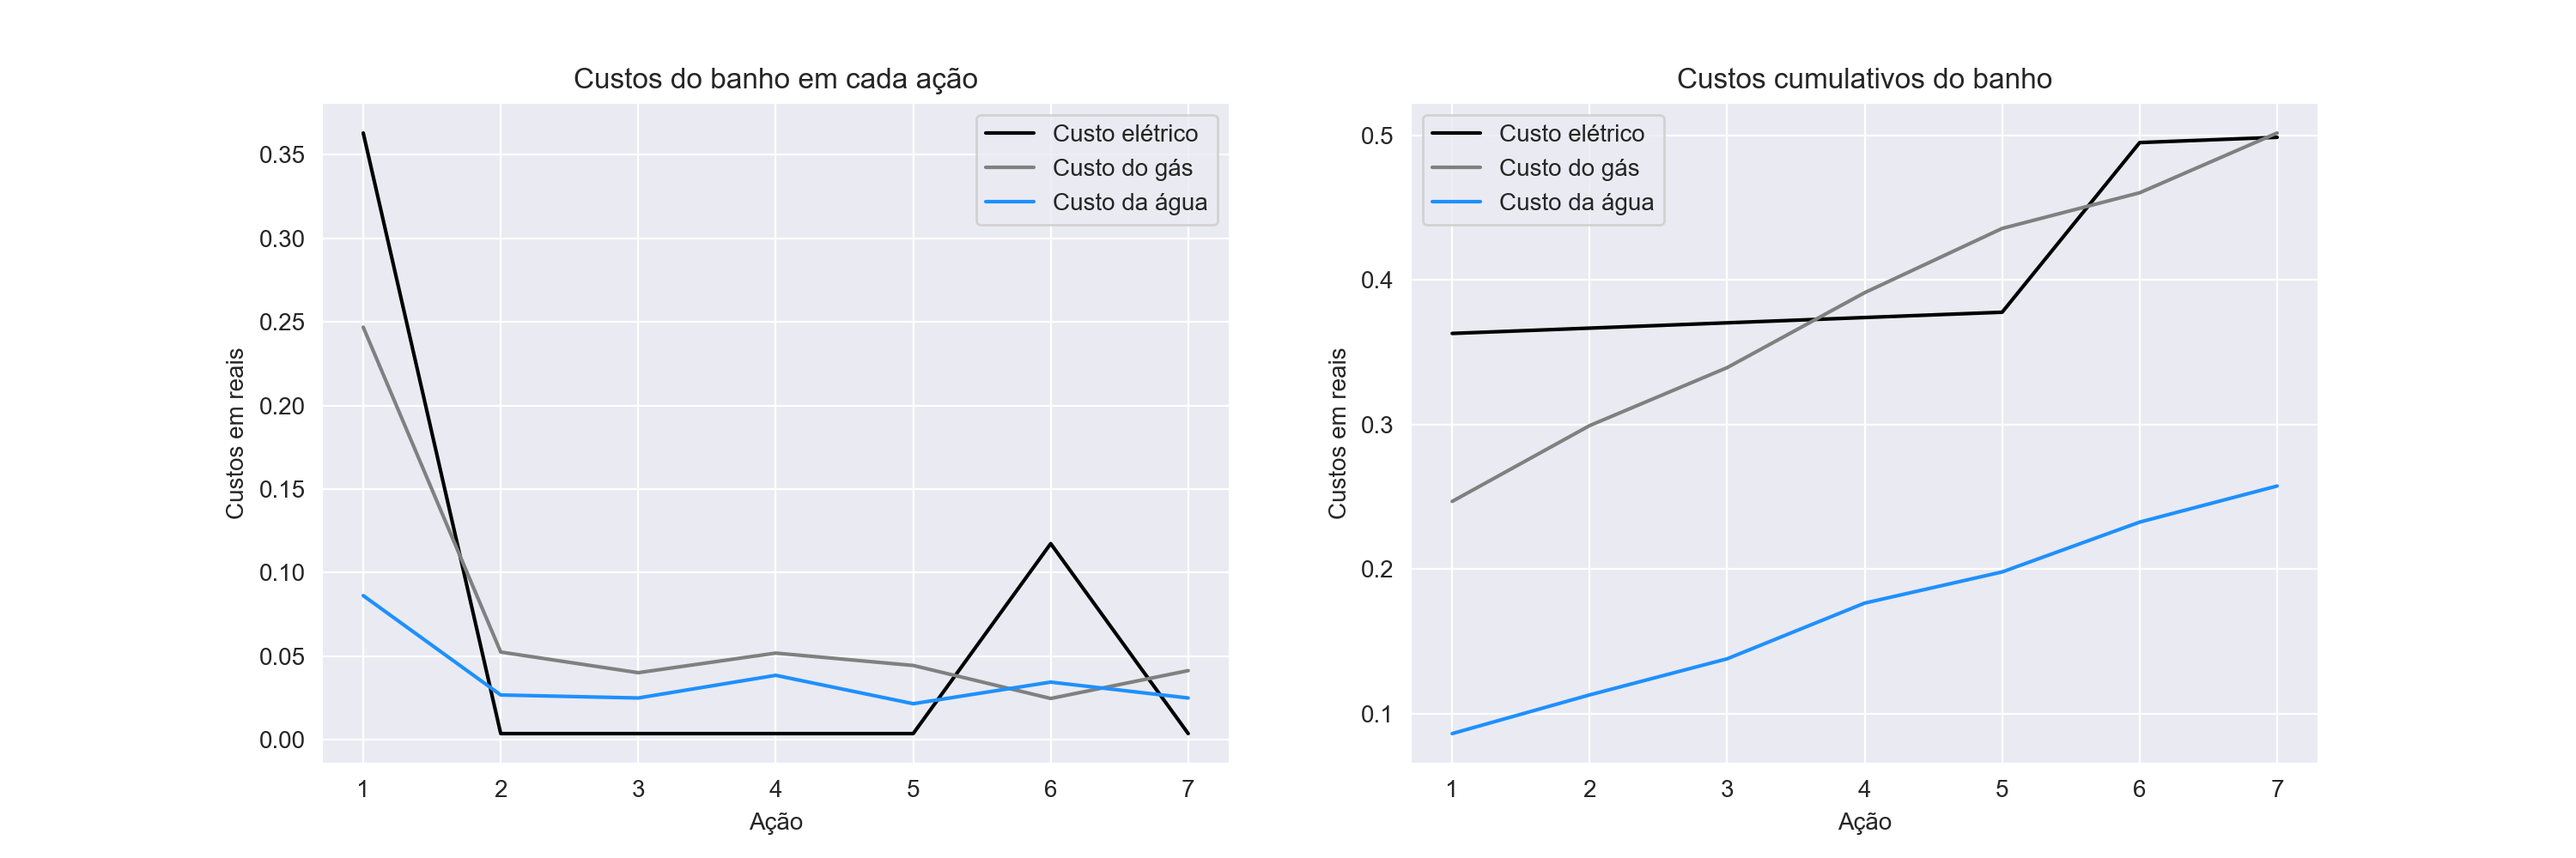
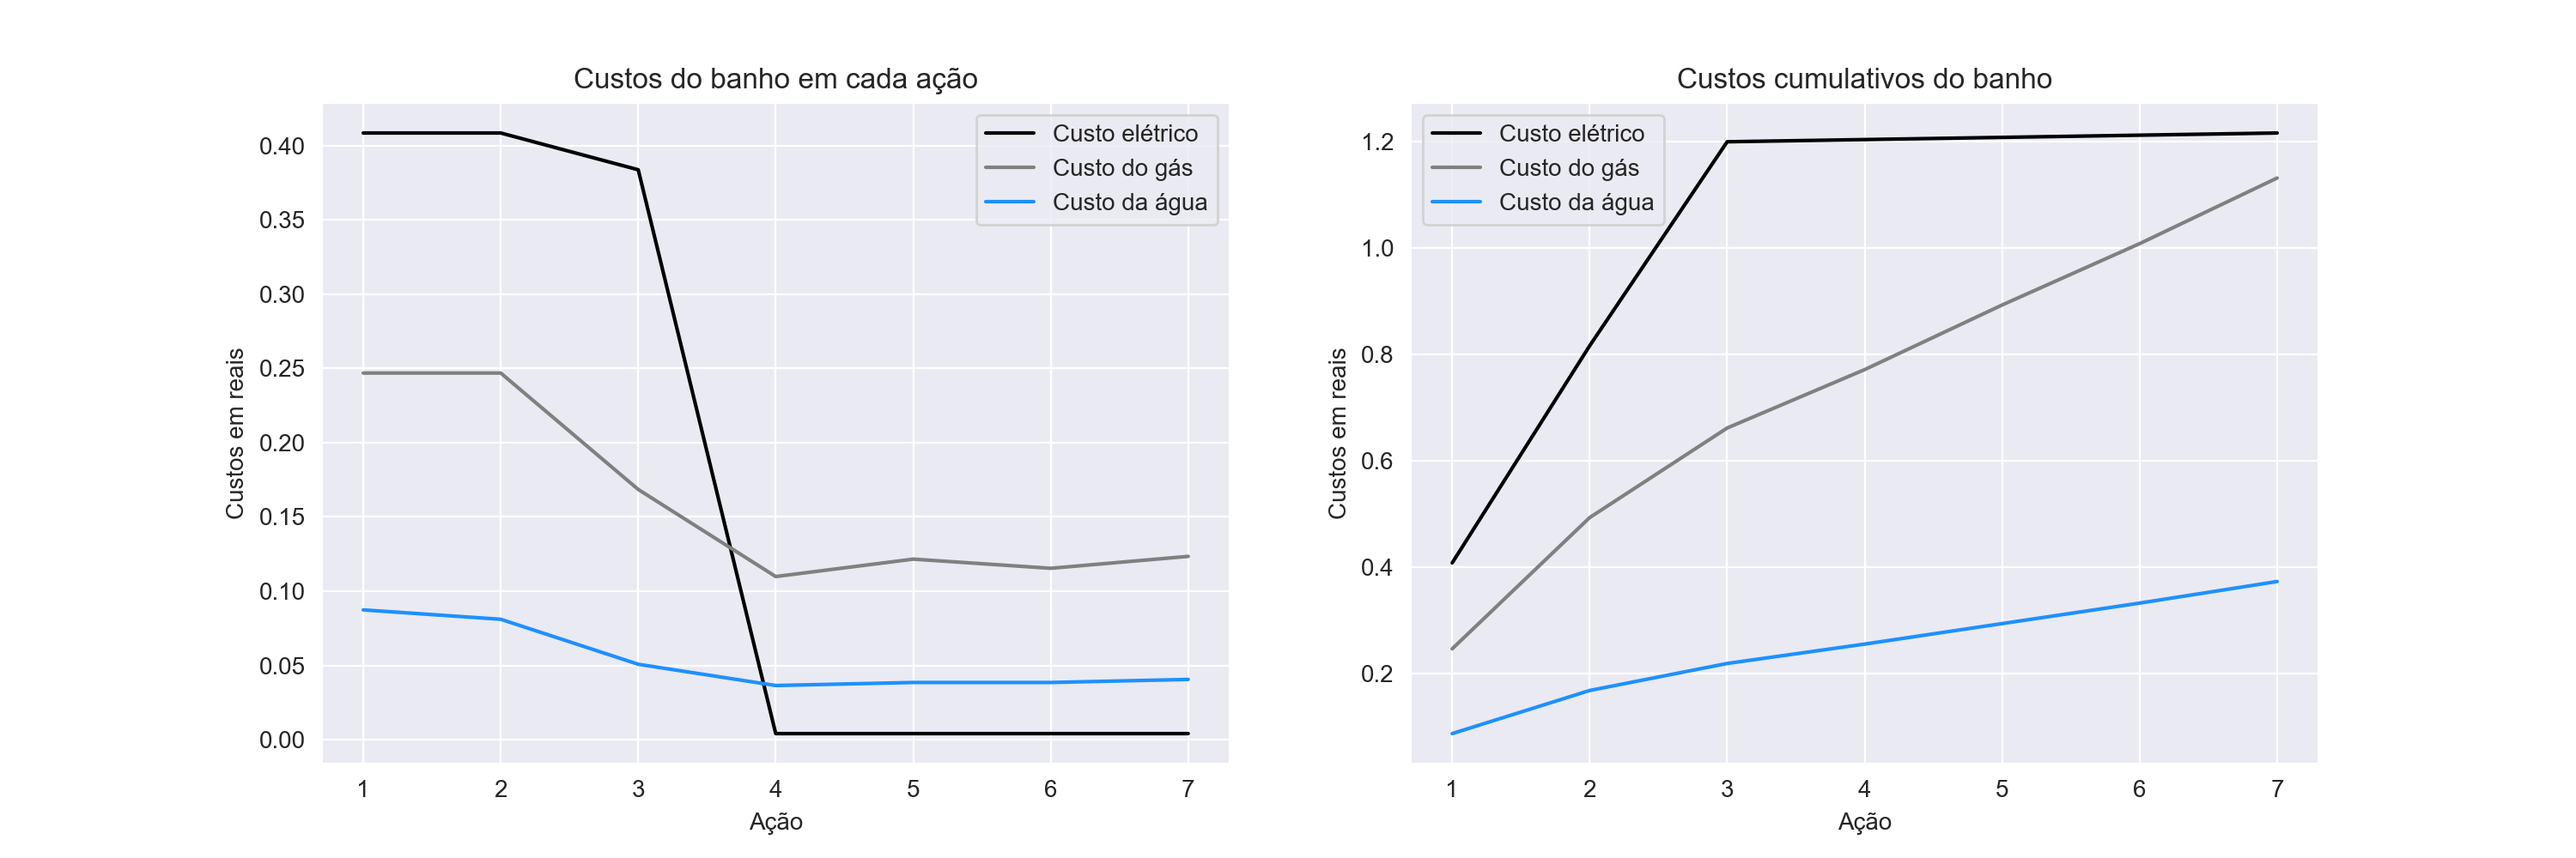
Results

diff --git a/treina_agente.py b/treina_agente.py
@@ -94,8 +94,10 @@ class ShowerEnv(gym.Env):
     def reset(self):
         
         # Temperatura ambiente e custo da energia elétrica em kWh:
-        self.Tinf = random.choice(self.Tinf_list)
-        self.custo_eletrico_kwh = random.choice(self.custo_eletrico_kwh_list)
+        # self.Tinf = random.choice(self.Tinf_list)
+        # self.custo_eletrico_kwh = random.choice(self.custo_eletrico_kwh_list)
+        self.Tinf = 15
+        self.custo_eletrico_kwh = 2.25
 
         # Distúrbios Fd e Td, temperatura da corrente fria Tf:
         self.Fd = 0
@@ -766,7 +768,7 @@ if treina:
 if avalia:
 
     # Define o concept e o selector:
-    concept = "banho_noite_quente"
+    concept = "banho_noite_fria"
     selector = True
 
     avalia_agente(nome_algoritmo, concept, selector)
